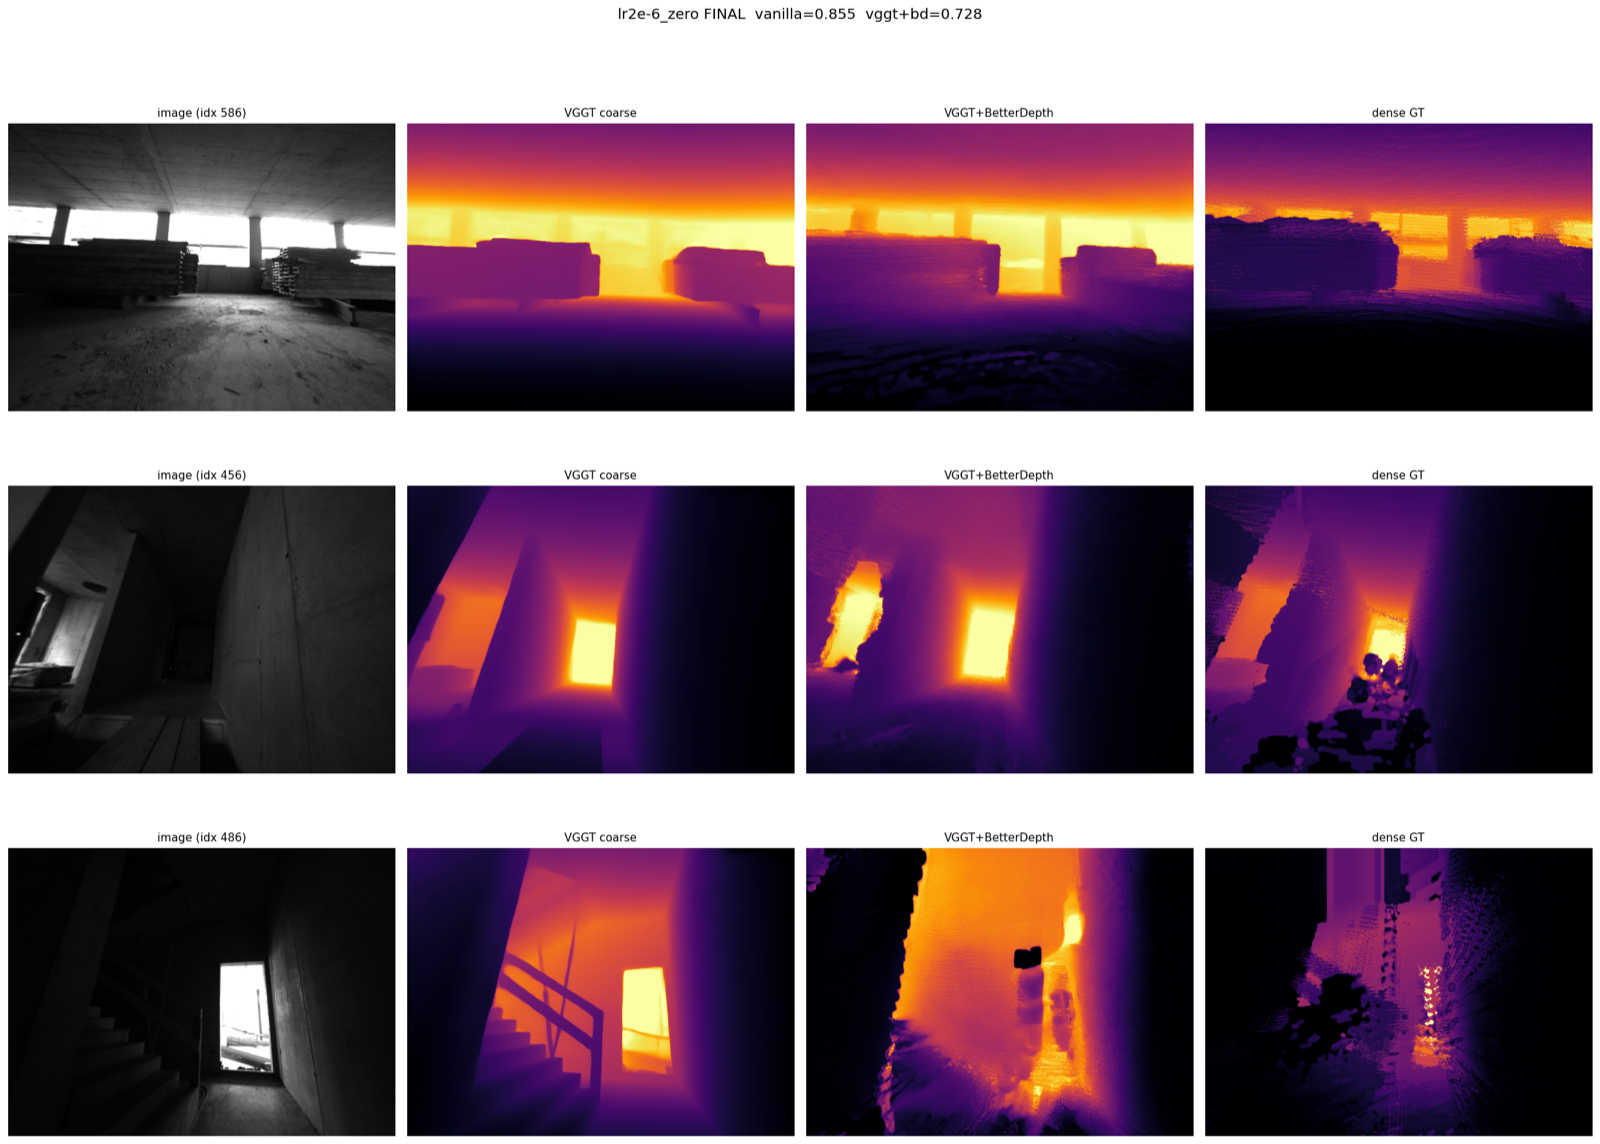
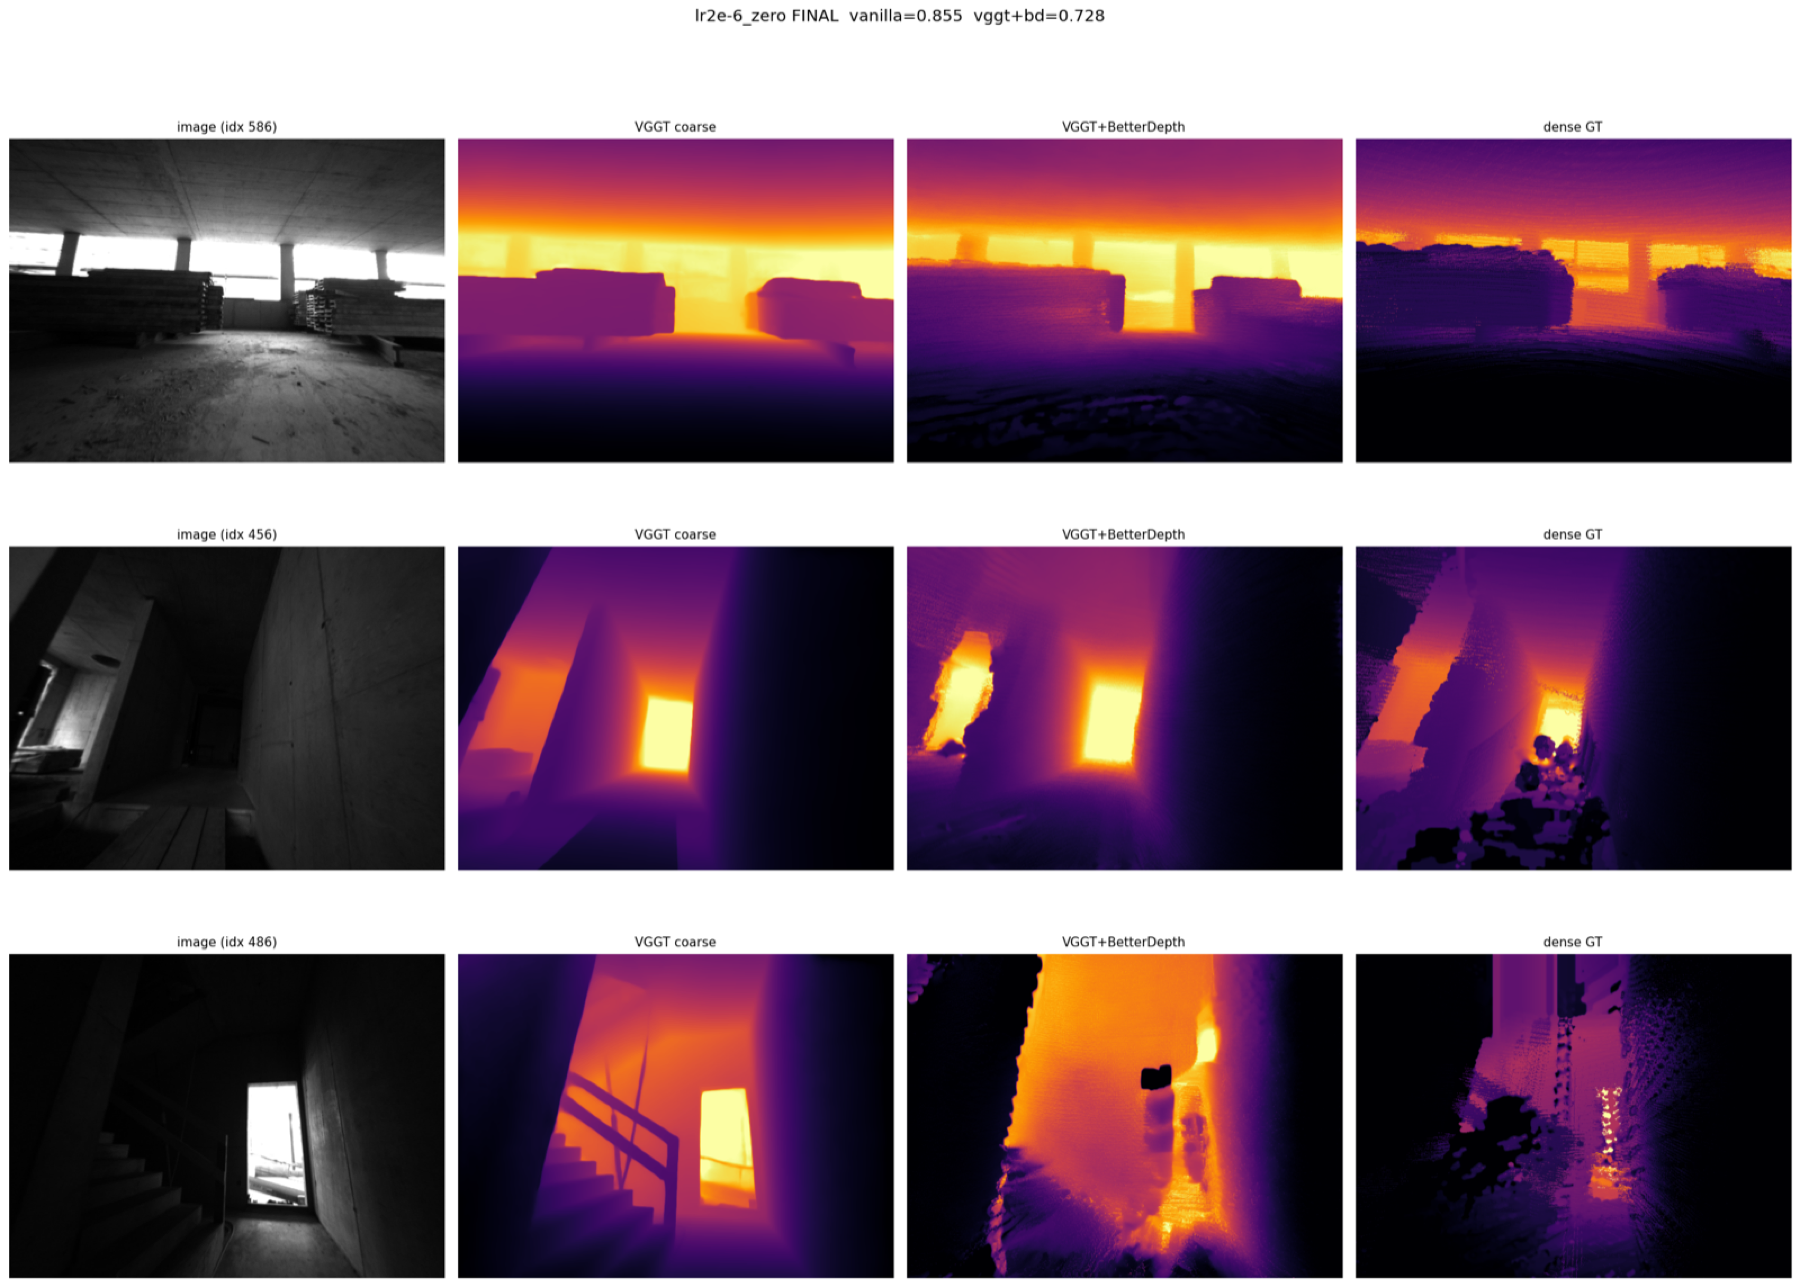
Rewrite MMVO page with milestones, architectures, and results
Restructure around motivation, ground-truth construction, the two
interventions (IMU cross-attention for pose; latent-diffusion refiner
for depth), and results. Add architecture and results figures pulled
from the milestone decks, link all three milestone PDFs and the final
paper, and make figures click-to-zoom for dense diagrams.

diff --git a/_sass/_prose.scss b/_sass/_prose.scss
@@ -88,6 +88,12 @@
 .content-figure {
   margin: 1.75em 0;
 
+  a {
+    display: block;
+    text-decoration: none;
+    cursor: zoom-in;
+  }
+
   img {
     margin: 0;
     width: 100%;

diff --git a/_includes/figure.html b/_includes/figure.html
@@ -1,4 +1,6 @@
 <figure class="content-figure{% if include.class %} {{ include.class }}{% endif %}">
-  <img src="{{ include.path | relative_url }}" alt="{{ include.alt | default: include.caption | escape }}" loading="lazy">
+  <a href="{{ include.path | relative_url }}" target="_blank" rel="noopener" aria-label="Open full-size image">
+    <img src="{{ include.path | relative_url }}" alt="{{ include.alt | default: include.caption | escape }}" loading="lazy">
+  </a>
   {% if include.caption %}<figcaption>{{ include.caption }}</figcaption>{% endif %}
 </figure>

diff --git a/_projects/mmvo.md b/_projects/mmvo.md
@@ -1,34 +1,77 @@
 ---
 title: "MMVO: Visual-Inertial 3D Reconstruction in Challenging Industrial Environments"
 subtitle: "Deep Learning for Computer Vision · Stanford CS231N"
-description: "Making VGGT-based 3D reconstruction survive construction sites: an IMU side network for camera pose, and a diffusion refiner for depth."
+description: "Making feed-forward 3D reconstruction survive construction sites: an IMU side network that corrects camera pose, and a diffusion refiner that sharpens depth — without fine-tuning the backbone or using LiDAR at inference."
 image: /assets/img/mmvo/vggt-betterdepth-comparison.png
 featured: true
 order: 3
 year: 2026
 affiliation: Stanford University, CS231N (group project)
-methods: "Visual-inertial fusion, cross-attention conditioning, 6-DOF pose regression, conditional latent diffusion for depth refinement"
-tools: "Python, PyTorch, VGGT, BetterDepth, ROS, Hilti SLAM Challenge 2023 dataset"
+methods: "Visual-inertial fusion, cross-attention conditioning, 6-DOF pose regression, conditional latent diffusion, point-cloud registration"
+tools: "Python, PyTorch, VGGT, BetterDepth, Stable Diffusion 2, COLMAP, ROS, Hilti SLAM Challenge 2023"
+links:
+  - title: Final paper (PDF)
+    url: /assets/papers/mmvo.pdf
+  - title: "Milestone 1 — problem & setup"
+    url: /assets/papers/mmvo-milestone-1.pdf
+  - title: "Milestone 2 — architecture"
+    url: /assets/papers/mmvo-milestone-2.pdf
+  - title: "Milestone 3 — results"
+    url: /assets/papers/mmvo-milestone-3.pdf
 ---
 
-## Overview
+## Motivation
 
-Digital twins of active construction sites require an accurate reconstruction of the site's geometry, but construction sites are hostile terrain for modern feed-forward reconstruction models: grayscale, low-texture, high-contrast imagery prevents [VGGT](https://arxiv.org/abs/2503.11651) from registering correspondences across views, degrading both its camera poses and its depth maps. This CS231N group project studies the factors driving that degradation and designs interventions that reduce reconstruction error **without fine-tuning on new images and without supplying LiDAR as input**, by decoupling the reconstruction problem into a camera-pose subproblem and a depth subproblem.
+Digital twins of active construction sites depend on an accurate reconstruction of site geometry, yet construction sites are hostile terrain for modern feed-forward reconstruction models. [VGGT](https://arxiv.org/abs/2503.11651) — a state-of-the-art transformer that jointly infers camera parameters, depth maps, point maps, and 2D tracks in a single forward pass — was trained on scenes that look nothing like an underground level: faint illumination, repetitive surfaces, grayscale imagery, and an absence of clear visual landmarks. Under these conditions the model cannot register correspondences across views, and both its camera poses and its depth maps degrade badly.
 
-{% include figure.html path="/assets/img/mmvo/hilti-fisheye-frame.png" caption="A raw Alphasense fisheye frame from the Hilti SLAM Challenge 2023 dataset — grayscale, low-texture, high-contrast: everything a reconstruction model dislikes." %}
+Our hypothesis was that **inertial measurements could serve as a prior where image features are uninformative on their own**. Crucially, we constrained ourselves to interventions that require *no fine-tuning of the backbone on new images* and *no LiDAR at inference time*. We therefore decoupled reconstruction into two subproblems — camera pose and depth — and designed a separate intervention for each.
 
-## Method
+{% include figure.html path="/assets/img/mmvo/hilti-fisheye-frame.png" caption="A raw Alphasense fisheye frame from the Hilti SLAM Challenge 2023 dataset: grayscale, low-texture, high-contrast — everything a reconstruction model dislikes." %}
 
-**Pose.** A side network — a fusion adapter composed of an IMU embedding mechanism and a stack of transformer encoders/decoders — conditions VGGT's camera tokens on inertial measurements through cross-attention and regresses 6-DOF poses as quaternion–translation pairs. This removes VGGT's catastrophic failure on the peripheral cameras and drives relative translation error to 3 cm, well below the 13.2 cm of an IMU-only baseline.
+## Data and ground truth
 
-**Depth.** A frozen VGGT produces coarse depth maps, which a [BetterDepth](https://arxiv.org/abs/2407.17952)-style refiner enhances using conditional latent diffusion. The refinement lowers per-frame Chamfer L2 from 0.98 m² to 0.75 m² on held-out construction-site sequences.
+Experiments use the [Hilti SLAM Challenge 2023](https://hilti-challenge.com/) platform: five synchronized fisheye cameras (720×540, 10 Hz) giving near-omnidirectional coverage, a co-mounted 6-DOF IMU at 200 Hz, and a 32-channel LiDAR at 10 Hz, recorded on real construction sites across floors, underground levels, and staircases.
 
-{% include figure.html path="/assets/img/mmvo/vggt-betterdepth-comparison.png" caption="Depth refinement on Hilti frames: input image, coarse VGGT depth, diffusion-refined VGGT + BetterDepth, and the dense LiDAR-derived ground truth." %}
+Because the dataset provides no absolute camera poses for most frames, ground truth had to be constructed. We recover relative rotation and translation between LiDAR sweeps via point-cloud registration (RANSAC/ICP and KISS-ICP), treat the first frame as the world origin, and interpolate the resulting sparse SE(3) poses to the images' timestamps — translation linearly, rotation by SLERP. This step turned out to matter: residuals against four known absolute positions revealed roughly 4 m of cumulative drift, and the sparsity of the LiDAR sweeps makes the interpolated trajectory conspicuously linear. Much of what we later observed in the error analysis traces back to the quality of this surrogate rather than to the networks themselves.
 
-## Data
+{% include figure.html path="/assets/img/mmvo/ground-truth-registration.png" caption="Ground-truth construction: sweep-to-sweep registration yields sparse SE(3) poses, interpolated to image timestamps. From Milestone 2." %}
 
-Experiments use the Hilti SLAM Challenge 2023 platform: five synchronized Alphasense fisheye cameras with near-omnidirectional coverage, a co-mounted IMU, and multi-channel LiDAR, recorded on active construction sites. A data-engineering pipeline extracts the ROS bag recordings into per-topic, timestamp-aligned frames, and the static laser scans are converted into a dense volumetric ground truth against which pose and depth predictions are evaluated.
+## Pose: conditioning camera tokens on inertial measurements
 
-## Full paper
+Rather than re-train VGGT, we attach a side network and keep the backbone frozen. IMU readings between consecutive image frames are collapsed into a single relative-motion factor by pre-integration, encoded by a 1-D CNN, projected into camera-token dimensions by an MLP, and passed through two to three transformer encoder blocks. A decoder then takes VGGT's camera tokens as **queries** and cross-attends them to the IMU representation as **keys and values**, producing corrected camera tokens. An MLP head projects these to a quaternion and a translation vector, which we convert to SE(3) for evaluation.
 
-The paper is available [as a PDF](/assets/papers/mmvo.pdf).
+The two objectives — geodesic rotation loss and L2 translation loss — are combined by Kendall's homoscedastic multi-task weighting, so the network learns how much to trust each task rather than having the balance fixed by hand. No gradient flows back into VGGT.
+
+{% include figure.html path="/assets/img/mmvo/pose-architecture.png" caption="The pose intervention: pre-integrated IMU tokens (K,V) cross-attended by VGGT's camera tokens (Q), with the backbone frozen. From Milestone 2." %}
+
+{% include figure.html path="/assets/img/mmvo/pose-training-loss.png" caption="Forward and backward pass. The gradient is stopped at the VGGT backbone; only the fusion adapter and pose head are trained. From Milestone 2." %}
+
+## Depth: a diffusion refiner over coarse predictions
+
+For depth, the frozen VGGT produces a coarse depth map which a [BetterDepth](https://arxiv.org/abs/2407.17952)-style refiner sharpens through conditional latent diffusion. The Hilti image and the coarse depth map are each encoded by a frozen Stable Diffusion 2 VAE; their latents are concatenated with a noisy depth latent (4 + 4 + 4 = 12 channels) and denoised by a [Marigold](https://arxiv.org/abs/2312.02145)-initialized UNet trained under a v-prediction objective. Everything except the UNet stays frozen, and a frozen VAE decoder maps the denoised latent back to a refined depth map.
+
+{% include figure.html path="/assets/img/mmvo/betterdepth-architecture.png" caption="The depth intervention: a trainable UNet refines VGGT's coarse depth by conditional latent diffusion, supervised against a synthesized dense depth surrogate." %}
+
+## Results
+
+**Pose.** Conditioning on inertial data removes VGGT's catastrophic failure on the peripheral cameras. VGGT's rotation error on cameras 2, 3, and 4 clusters around 107° — an artifact of the fisheye field of view colliding with the pinhole model VGGT assumes, compounded by the near-total absence of features shared between those views. Our network brings these to roughly 9–14°, while relative translation error falls to about 3 cm, well below the 13.2 cm of an IMU-only (VINS-Mono-style) baseline. The improvement in translation is uniform across cameras, unlike VGGT's, which varies sharply.
+
+The honest caveat is that the [VINS-Mono](https://arxiv.org/abs/1708.03852) baseline still attains a *lower* mean relative rotation error — 1.7° against our 7.6°. We attribute this to the injection point of our intervention rather than to the inertial signal itself: the network treats each camera's rotation independently and never sees the rig's physical constraint that the five cameras are rigidly co-mounted. Cameras 0 and 1, whose fields of view overlap, converge to about 1.1°; the peripheral cameras, which share little, do not.
+
+{% include figure.html path="/assets/img/mmvo/rotation-error-per-camera.png" caption="Per-camera rotation error. The forward-facing cameras 0 and 1 converge to ~1.1°; the peripheral cameras retain 10–15° error with high variance — the rig's geometry is never given to the network as a constraint. From Milestone 3." %}
+
+{% include figure.html path="/assets/img/mmvo/baseline-comparison.png" caption="Validation comparison against VGGT across the five cameras: rotation error, translation error, and the resulting improvement ratios. From Milestone 3." %}
+
+**Depth.** The diffusion refiner lowers per-frame Chamfer L2 from VGGT's 0.98 m² to 0.75 m². We report this as promising rather than conclusive: the dense ground truth is itself synthesized from sparse LiDAR, and its residual artifacts bound how far the refiner can be trusted.
+
+{% include figure.html path="/assets/img/mmvo/vggt-betterdepth-comparison.png" caption="Depth refinement on held-out Hilti frames: input image, coarse VGGT depth, diffusion-refined VGGT + BetterDepth, and the dense ground-truth surrogate." %}
+
+## Documents
+
+The project was developed across three milestones, each of which is available in full:
+
+- [**Milestone 1**](/assets/papers/mmvo-milestone-1.pdf) — problem motivation, hypothesis, the Hilti dataset and evaluation protocol, and a review of related work (VGGT, VINS-Mono, LiDAR-VGGT).
+- [**Milestone 2**](/assets/papers/mmvo-milestone-2.pdf) — ground-truth construction by point-cloud registration, the fusion architecture, the multi-task loss, and the forward/backward pass.
+- [**Milestone 3**](/assets/papers/mmvo-milestone-3.pdf) — training runs, the per-camera error decomposition, baseline comparisons, and qualitative trajectory analysis.
+
+The final paper, *Visual-Inertial 3D Reconstruction in Challenging Industrial Environments*, is available [as a PDF](/assets/papers/mmvo.pdf).